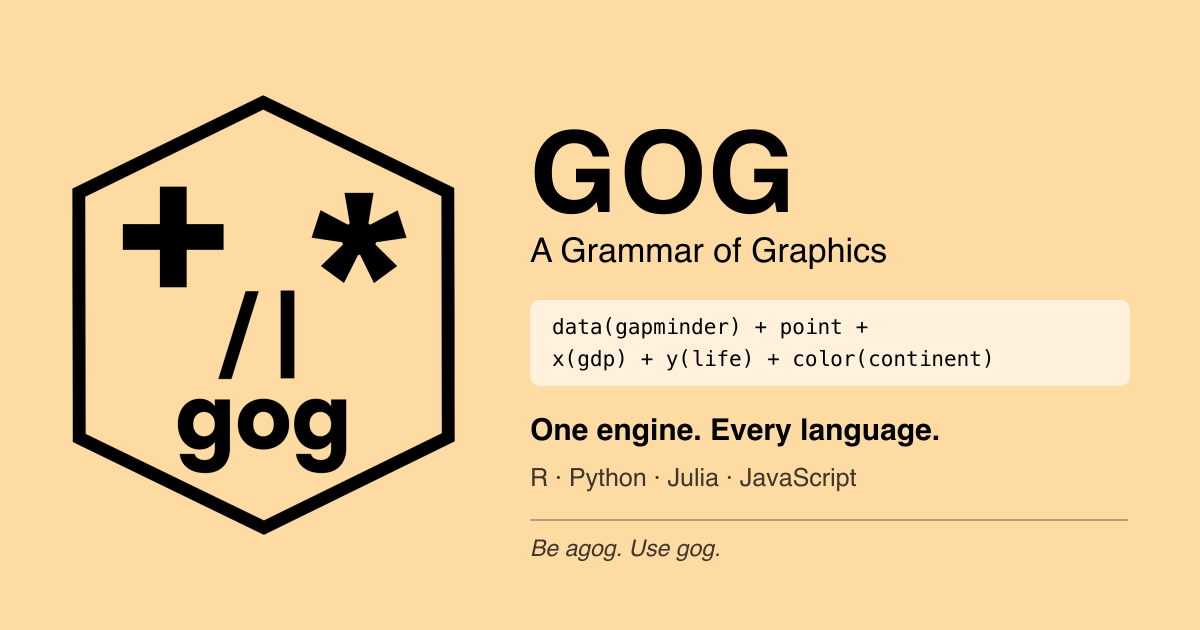
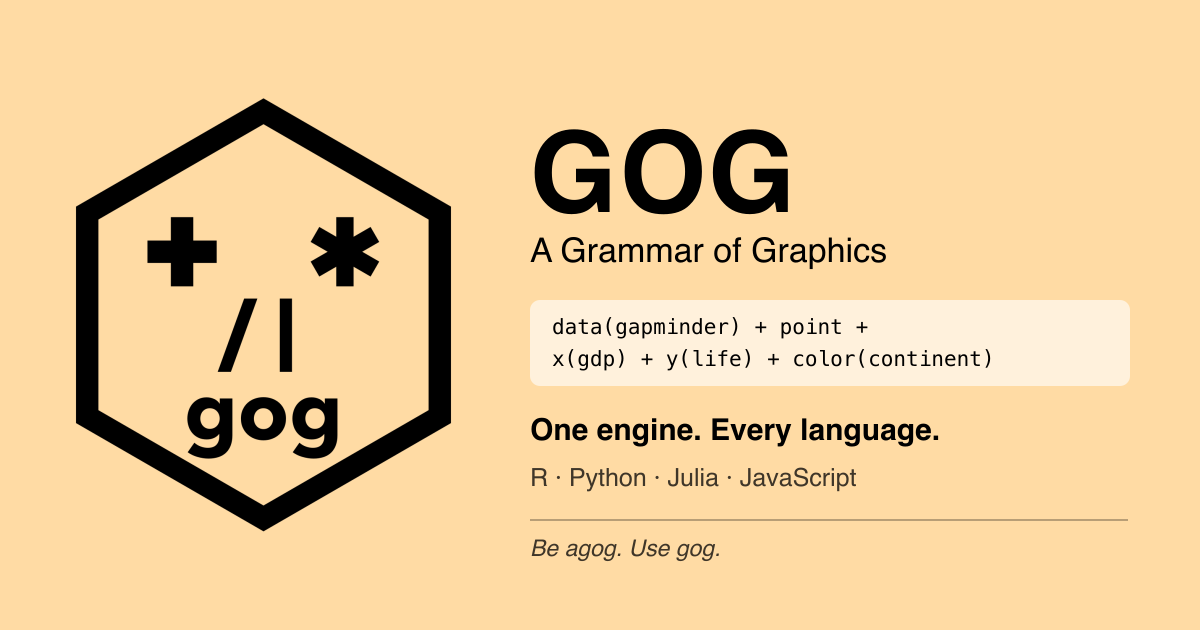
The hex sticker is one file, and the cover starts where the prose does
The sticker was redrawn, and the new art replaces gog_hex.png everywhere it
appeared: the book's cover, the repository README, the blog's hero and its
favicon, and the source art inside the social card. One file now, gog-hex.png,
with nothing else to keep in step with it.

It stays raster on purpose. Every mark on the face is drawn geometry, but the
name across the bottom is type, set in Avenir Next. That font ships on macOS
and almost nowhere else, so a vector copy asks each reader's browser for a face
most of them do not have and draws the g in whatever it finds instead.
Rendering it once settles the letterform for everybody, which is what a
wordmark is for.

The preface gains the Zenodo DOI badge, under the slogan. Installing gog
already stated it in a sentence; a reader deciding whether to cite the book now
gets that answer before the preface rather than after it.

Two layout fixes came with it. Quarto floats the cover right, and a float is
placed where it appears in the source, so the sticker sat level with the slogan
while the prose beside it started two blocks lower. Its top edge now lands on
the first line of the opening paragraph, and steps back on a narrow screen,
where the layout is one column and holding it down would only open a band of
white. Writing the four margins out restores the left gap Quarto sets and an
auto shorthand had been zeroing, so the paragraph no longer runs against the
sticker's edge.
[…]

Changed region(s): [[0.0617, 0.1508, 0.4008, 0.8444], [0.185, 0.4524, 0.2467, 0.6032]]

diff --git a/book/gog.css b/book/gog.css
@@ -105,14 +105,37 @@
  * page's opening heading, with `img-fluid`, which only caps it at the column
  * width. The file is 1002px wide, so left alone it fills the text column and
  * the preface starts below the fold. A badge is meant to be taken in at a
- * glance, so it is sized like one and centered. The percentage cap is what
- * keeps it from crowding a narrow phone screen.
+ * glance, so it is sized like one. The percentage cap is what keeps it from
+ * crowding a narrow phone screen. The file is drawn at more than five times
+ * the width it is shown at, which is what keeps it sharp on a retina screen.
+ *
+ * The four margins are written out rather than shortened to `auto`, because
+ * Quarto's own rule floats this image right and sets a left margin to hold the
+ * prose off it. A shorthand with `auto` in it replaces that value, and `auto`
+ * is zero on a float, so the paragraph ran flush against the sticker's edge.
  * ------------------------------------------------------------------------- */
 .quarto-cover-image {
   display: block;
   width: 190px;
   max-width: 45%;
-  margin: 1.75rem auto 2.25rem;
+  margin: 6rem 0 2.25rem 2rem;
+}
+
+/* Quarto floats the cover right, and a float is placed where it appears in the
+ * source, which is directly under the heading. So the sticker started level
+ * with the slogan while the prose beside it started two blocks lower, and the
+ * two read as though the sticker had drifted upward. The top margin above is
+ * the height of the slogan and the badge together, which drops the sticker's
+ * top edge onto the first line of the opening paragraph.
+ *
+ * It is reset on a narrow screen, where the layout is no longer two columns.
+ * The float still applies, but the text wrapping beside a 45%-wide sticker is
+ * three or four words per line, so holding the sticker down would open a band
+ * of white above it rather than align it with anything. */
+@media (max-width: 767.98px) {
+  .quarto-cover-image {
+    margin-top: 1.75rem;
+  }
 }
 
 /* The slogan under the sticker ---------------------------------------------
@@ -153,6 +176,27 @@
  * after `.gog-slogan`, since equal specificity is settled by source order. */
 .gog-slogan-close {
   margin-top: 2.4rem;
+}
+
+/* The DOI badge, directly under the slogan --------------------------------
+ *
+ * The book is deposited on Zenodo, and the badge is the one-glance version of
+ * what the *Installing gog* section says in a sentence. It sits at the top
+ * because a reader deciding whether to cite this wants that answer before the
+ * preface, not after it.
+ *
+ * It is placed left, under the slogan, so the two read as one block against
+ * the sticker floating opposite. The negative top margin closes the gap the
+ * slogan's own bottom margin opens, which is sized for body text rather than
+ * for a 20px badge. HTML only: the printed edition carries the DOI in the
+ * same section's prose, and a badge is a link, which a page cannot be.
+ * ------------------------------------------------------------------------- */
+.gog-doi {
+  margin: -1.9rem 0 2.4rem;
+}
+
+.gog-doi > p {
+  margin-bottom: 0;
 }
 
 /* ---------------------------------------------------------------------------

diff --git a/blog/images/README.md b/blog/images/README.md
@@ -7,14 +7,22 @@ same converter the book uses for its PDF figures:
 rsvg-convert -w 1200 -h 630 og.svg -o og.png
 ```
 
-`og.svg` references `gog_hex.png` by relative path, so both files have to sit in
+`og.svg` references `gog-hex.png` by relative path, so both files have to sit in
 this directory for the conversion to work.
 
 **1200 x 630, and the ratio is the requirement rather than the size.** Open Graph
-and Twitter both expect about 1.91:1. The hex sticker itself is 1002 x 1150 and
-portrait, so it cannot be the card: a portrait image is letterboxed by Bluesky
-and X falls back to a small square thumbnail instead of a banner. The hex stays
-the favicon, and it is the source art inside the card.
+and Twitter both expect about 1.91:1. The hex sticker is portrait, so it cannot
+be the card: a portrait image is letterboxed by Bluesky and X falls back to a
+small square thumbnail instead of a banner. The hex stays the favicon, and it is
+the source art inside the card.
+
+**`gog-hex.png` is the sticker, and it is raster on purpose.** Every mark on the
+face is geometry and would survive as vector, but the name across the bottom is
+type, set in Avenir Next. That font ships on macOS and almost nowhere else, so a
+vector sticker draws its own wordmark differently for most of the people who see
+it. Rendering it once fixes the letterform for everybody. The same file is the
+favicon, the front page's hero, the book's cover, the repository's README and
+the art inside the card here.
 
 Hacker News renders no card at all. It shows a title and a domain, so none of
 this reaches it.

diff --git a/README.md b/README.md
@@ -1,6 +1,6 @@
 # gog — a grammar of graphics
 
-<img src="book/images/gog_hex.png" alt="The gog hex sticker: a peach hexagon holding a face built from the package's four operators, a plus and an asterisk as its two eyes, a slash and a vertical bar as its nose, and the package name as its mouth." align="right" width="170">
+<img src="book/images/gog-hex.png" alt="The gog hex sticker: a peach hexagon holding a face built from the package's four operators, a plus and an asterisk as its two eyes, a slash and a vertical bar as its nose, and the package name as its mouth." align="right" width="170">
 
 **Be agog. Use gog.**
 
